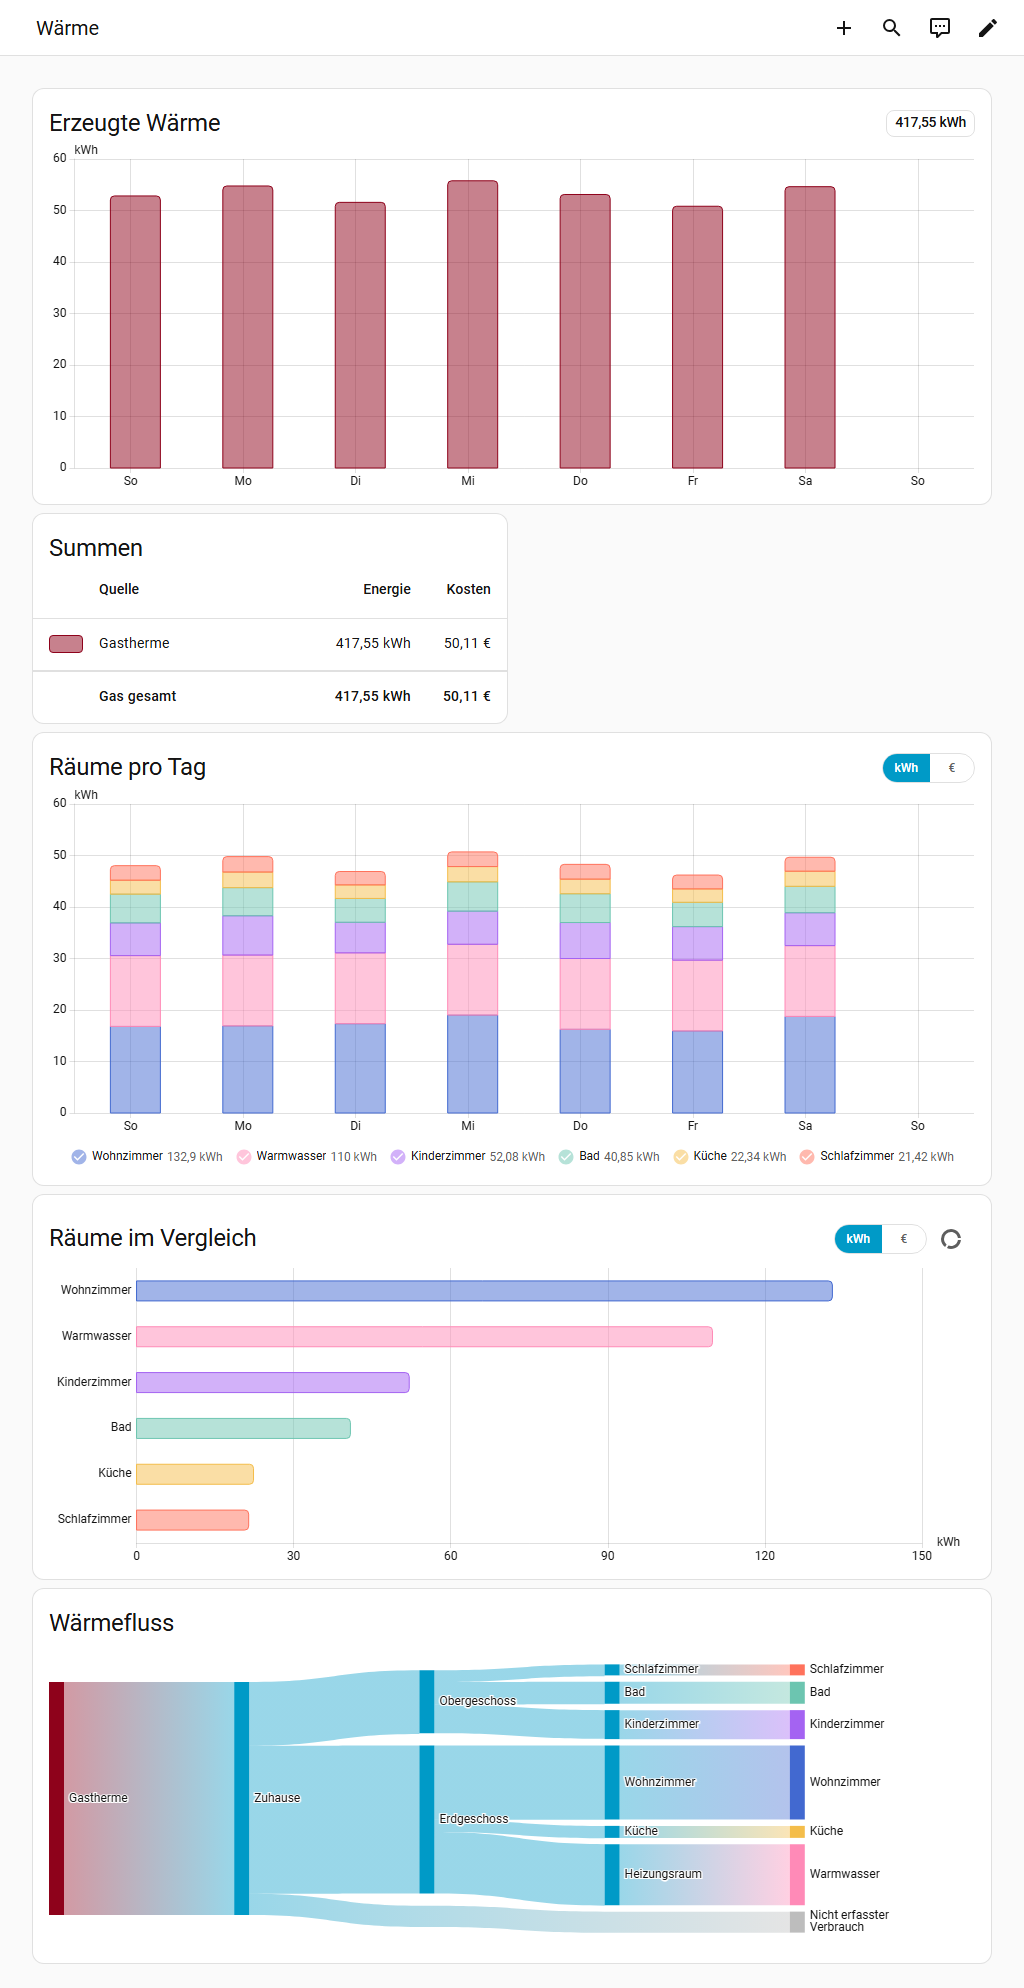
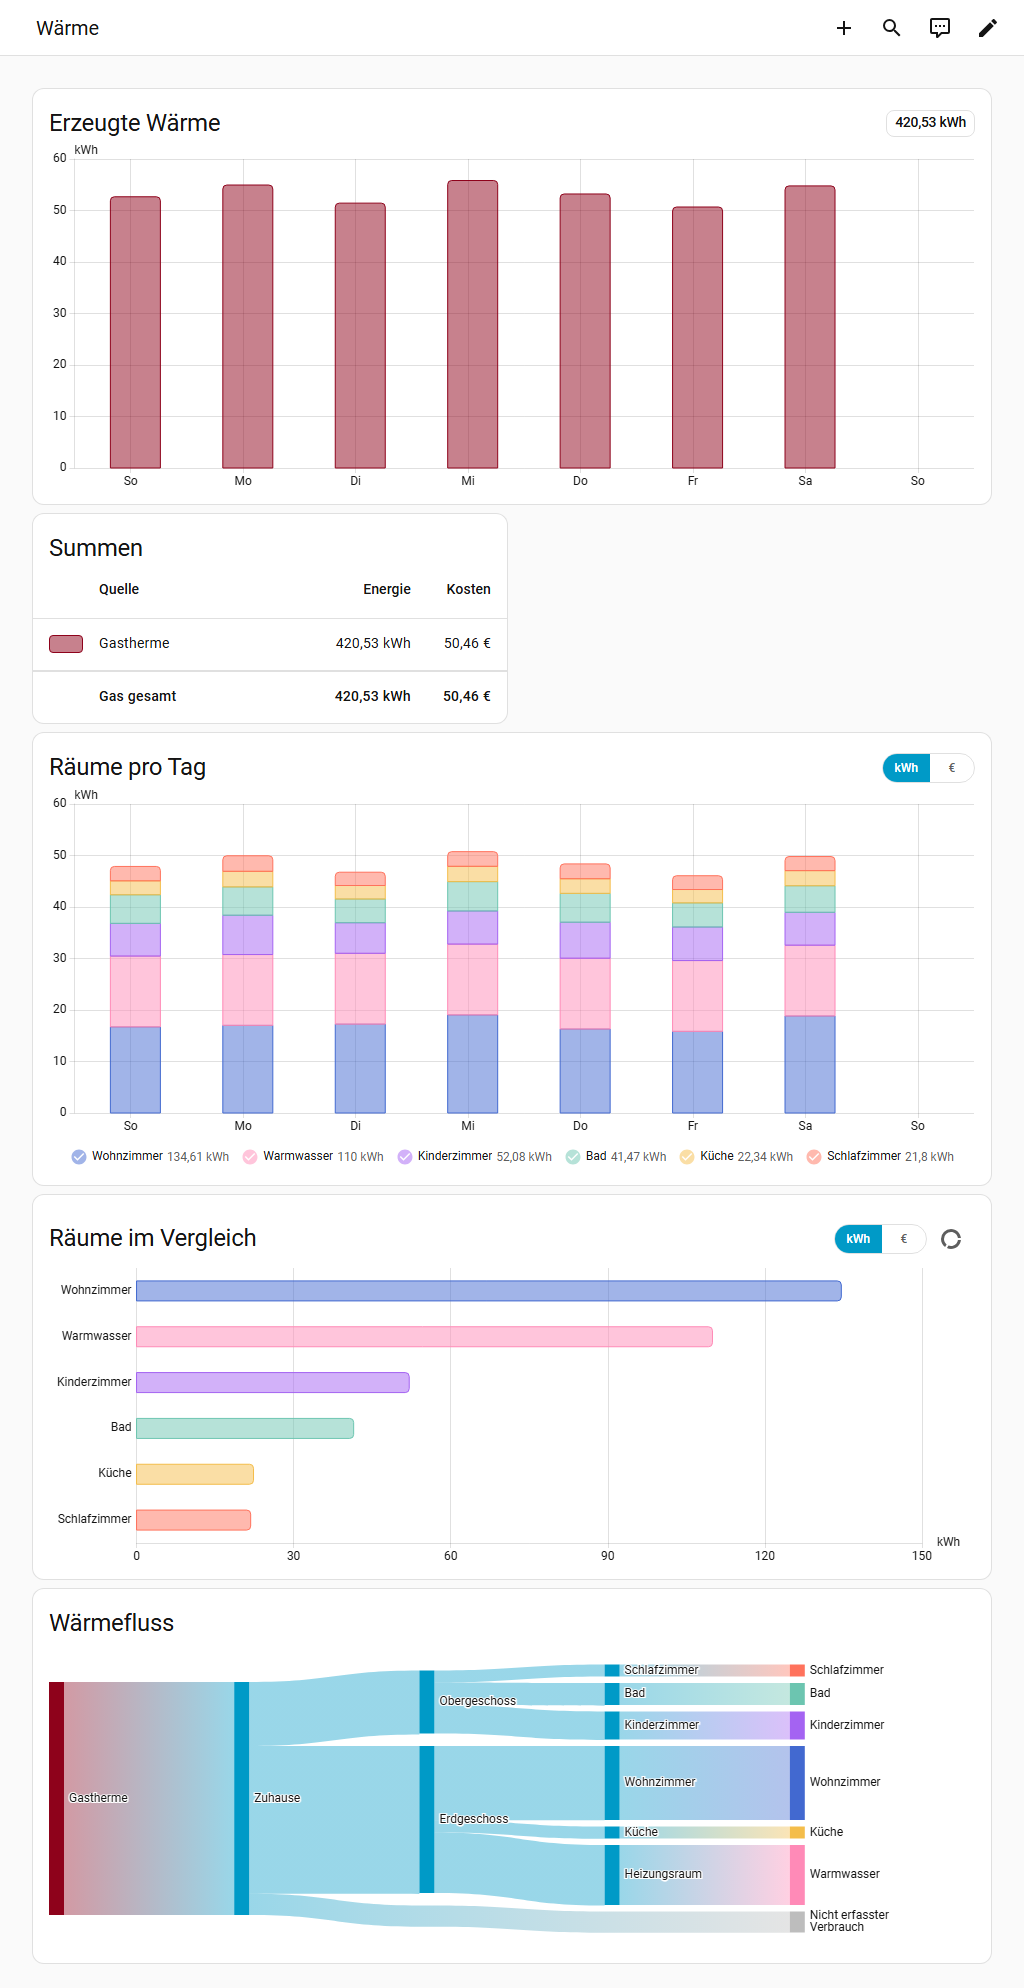
Help pages: a screenshot of the room cards switched to costs

diff --git a/docs/energy-dashboard.de.md b/docs/energy-dashboard.de.md
@@ -164,6 +164,8 @@ Hat deine Wärmequelle im Gas-Reiter einen Preis (siehe [Einrichten](#einrichten
 einen kleinen Umschalter: **kWh** oder deine Währung, zum Beispiel **€**. Auf **€** zeigen sie, was jeder Raum und
 das Warmwasser gekostet haben.
 
+![Die beiden Raum-Karten auf Kosten umgeschaltet: Euro pro Tag und pro Raum](assets/screenshots/heat-dashboard-costs.png){ .screenshot }
+
 Ein Raum kostet seine Wärme mal den Preis deiner Wärmequelle. Die Räume ergeben zusammen also die Kosten aus den
 Summen, abzüglich der Wärme, die kein Raum abgenommen hat. War Home Assistant eine Weile aus, fehlen den Summen die
 Kosten der Wärme aus dieser Zeit; die Karten zählen sie mit.

diff --git a/docs/energy-dashboard.md b/docs/energy-dashboard.md
@@ -156,6 +156,8 @@ If your heat source has a price on the gas tab (see [Set it up](#set-it-up)), bo
 top right corner: **kWh** or your currency, for example **€**. On **€** they show what each room and the hot water
 cost.
 
+![The two room cards switched to costs: euros per day and per room](assets/screenshots/heat-dashboard-costs.png){ .screenshot }
+
 A room costs its heat times the price of your heat source. The rooms therefore add up to the costs in the totals,
 less the heat that no room took. If Home Assistant was off for a while, the totals lack the costs of the heat from
 that time; the cards count them.
